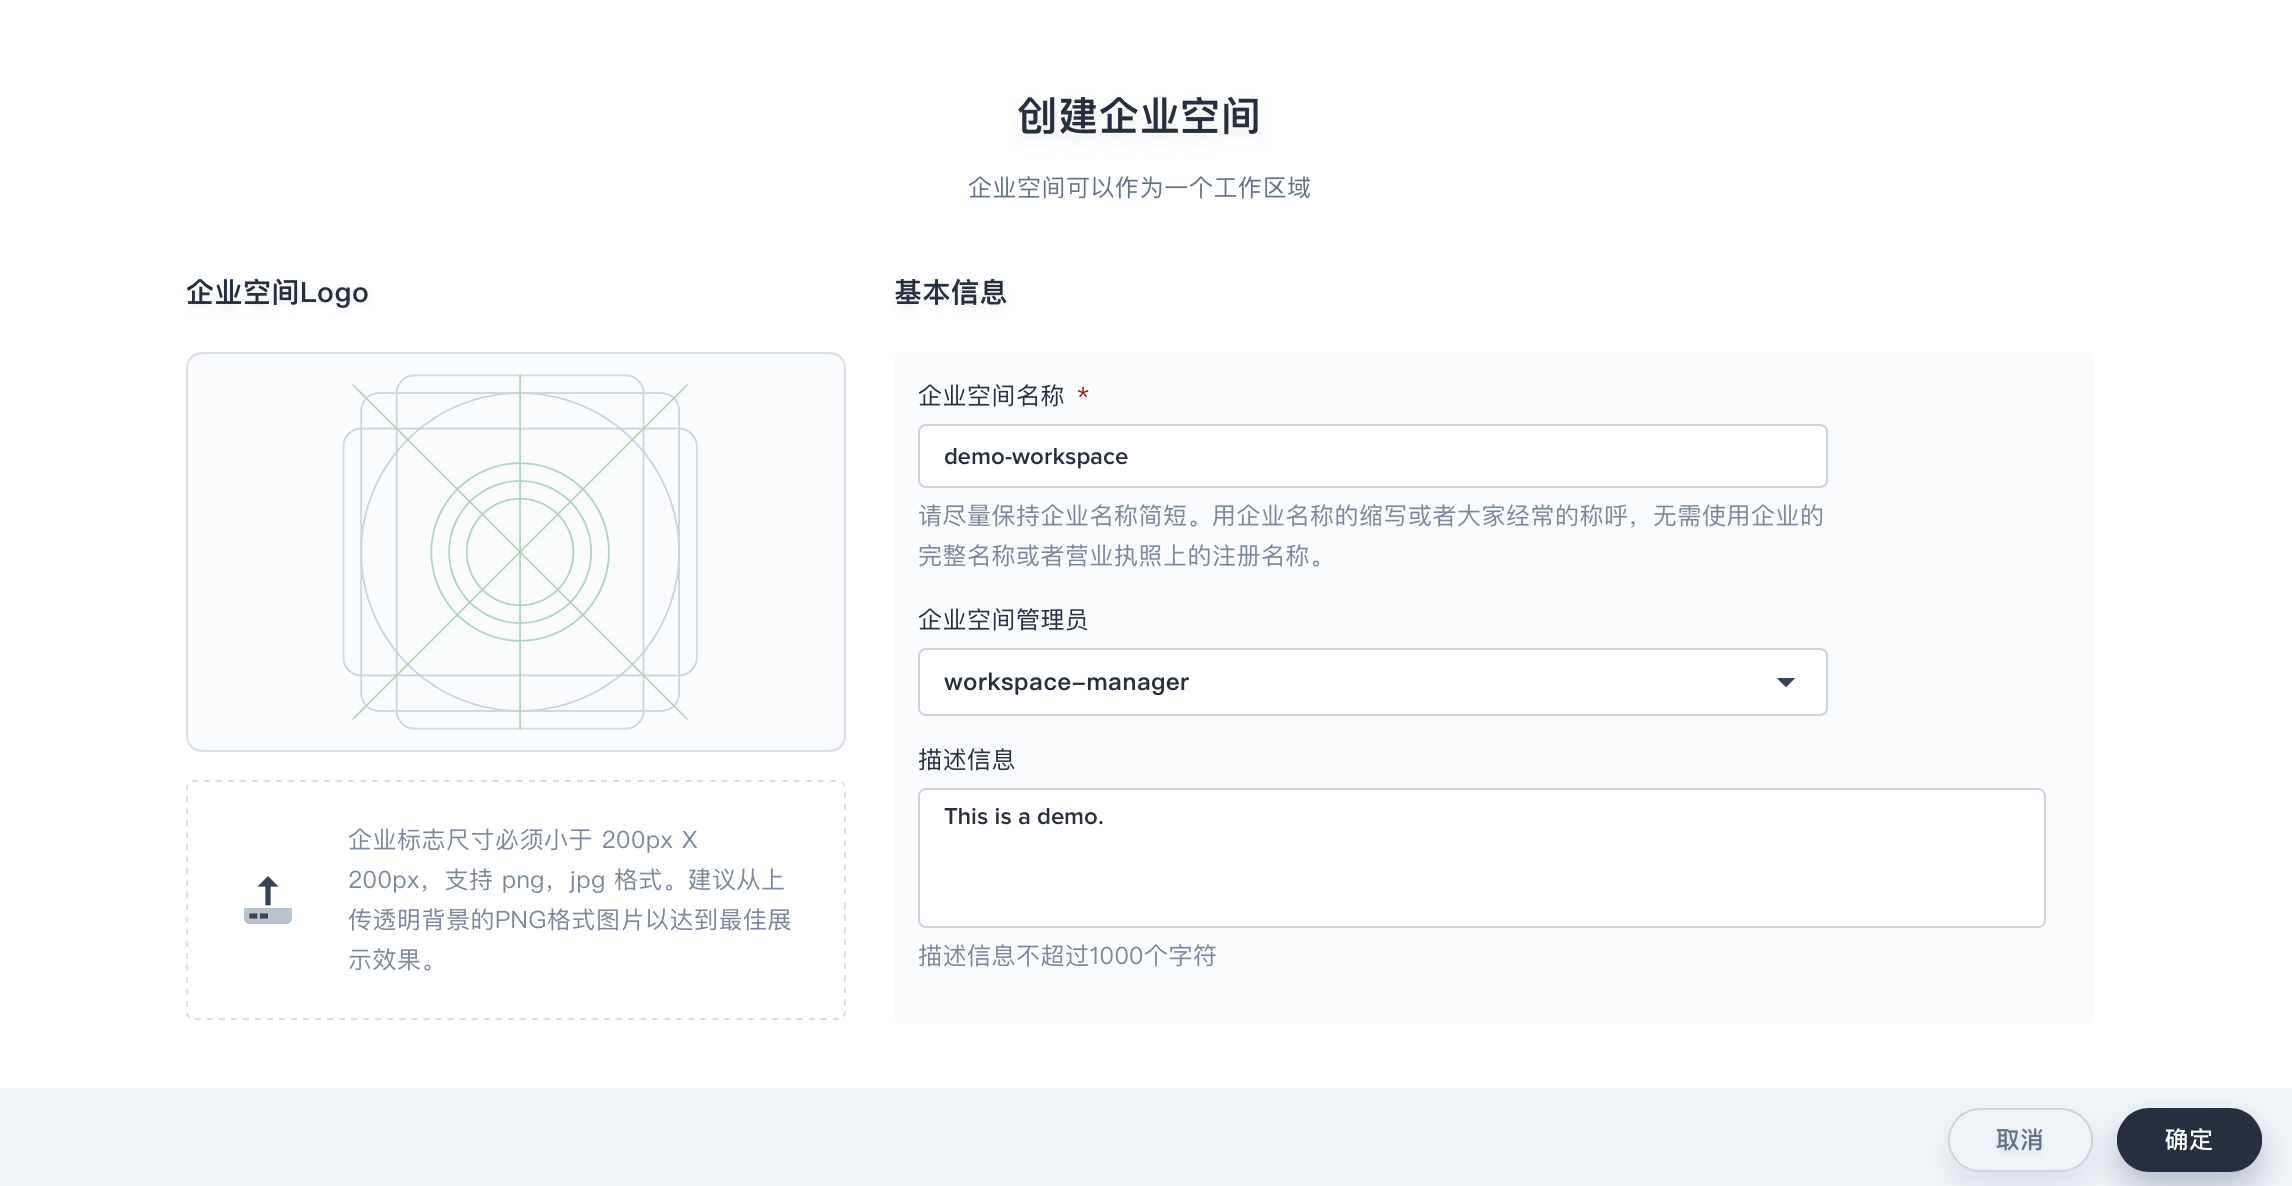
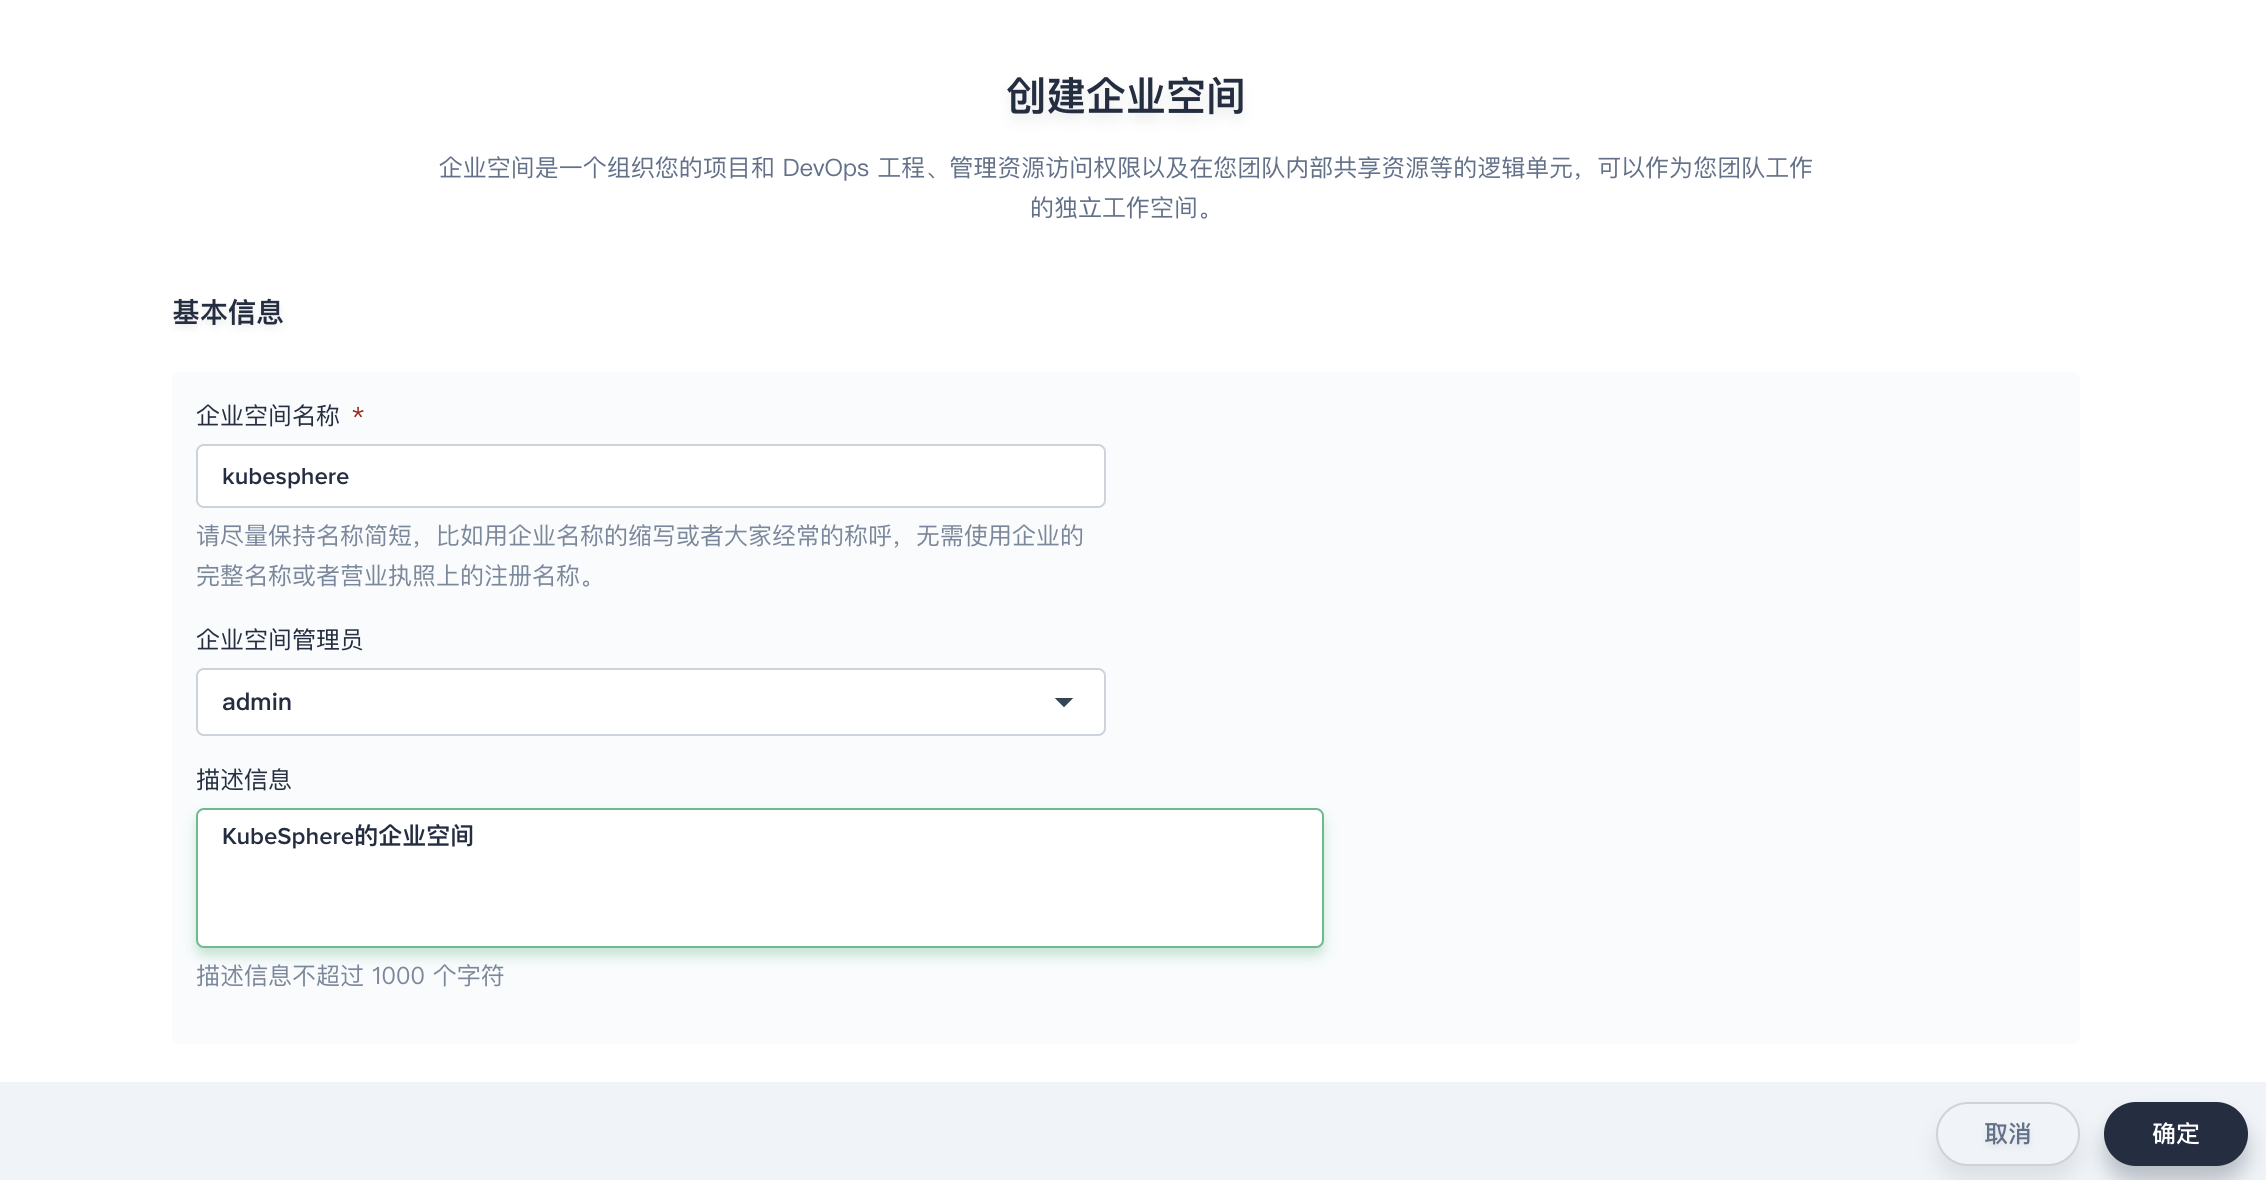
fix typo, update faq

diff --git a/content/advanced-v1.0.0/zh-CN/installation/master-ha.md b/content/advanced-v1.0.0/zh-CN/installation/master-ha.md
@@ -27,7 +27,11 @@ Multi-node 模式安装 KubeSphere 可以帮助用户顺利地部署一个多节
 
 为了对待部署目标机器及部署流程进行集中化管理配置，集群中各个节点在主机配置文件 `hosts.ini` 中应参考如下配置，建议使用 `root` 用户安装。
 
-以下示例在 CentOS 7.5 上使用 `root` 用户安装，若以非 root 用户 (如 ubuntu ) 进行安装，可参考主机配置文件的注释 `non-root` 示例部分编辑。
+以下示例在 **CentOS 7.5** 上使用 `root` 用户安装，若以非 root 用户 (如 ubuntu ) 进行安装，可参考主机配置文件的注释 `non-root` 示例部分编辑。
+
+> 说明：
+> - 若以非 root 用户 (如 ubuntu 用户) 进行安装，可参考配置文件 `conf/hosts.ini` 的注释中 `non-root` 用户示例部分编辑。
+> - 如果在 taskbox 使用 root 用户无法 ssh 连接到其他机器，也需要参考 `conf/hosts.ini` 的注释中 `non-root` 用户示例部分，但执行安装脚本 `install.sh` 时建议切换到 root 用户，如果对此有疑问可参考 [常见问题 - 问题 2](../../faq)。
 
 **host.ini 配置示例**
 
@@ -109,5 +113,5 @@ loadbalancer_apiserver:
   port: 6443
 ```
 
-完成 master 和 etcd 高可用的参数配置后，可继续参阅 [Multi-node 模式 - 存储配置示例](../multi-node/#第二步-准备安装配置文件) 在 vars.yml 中配置持久化存储相关参数，并继续多节点的安装。
+完成 master 和 etcd 高可用的参数配置后，请继续参阅 [Multi-node 模式 - 存储配置示例](../multi-node/#第二步-准备安装配置文件) 在 vars.yml 中配置持久化存储相关参数，并继续多节点的安装。
 

diff --git a/content/advanced-v1.0.0/zh-CN/faq.md b/content/advanced-v1.0.0/zh-CN/faq.md
@@ -10,7 +10,7 @@ title: "常见问题"
 
 可通过命令 `sudo su` 切换为 root 用户后，在该节点查看是否能 ssh 连接到其他机器，如果 ssh 无法连接，则需要参考 `conf/hosts.ini` 的注释中 `non-root` 用户示例部分，如下面第二步 `hosts.ini` 配置示例所示，而最终执行安装脚本 `install.sh` 时建议以 `root` 用户执行安装。
 
-第一步，查看是否能 ssh 连接到其他机器，若无法连接，则参考第二步配置示例。相反，如果 root 用户能够 ssh 成功连接到其它机器，则可以参考 `[all]` 默认的 root 用户配置方式。
+第一步，查看是否能 ssh 连接到其他机器，若无法连接，则参考第二步配置示例。相反，如果 root 用户能够 ssh 成功连接到其它机器，则可以参考 Installer 中默认的 root 用户配置方式。
 
 ```
 root@192.168.0.3 # ssh 192.168.0.2
@@ -18,7 +18,7 @@ Warning: Permanently added 'node1,192.168.0.2' (ECDSA) to the list of known host
 root@192.168.0.2's password: 
 Permission denied, please try again.
 ```
-第二步，参考以下示例修改主机配置文件 `hosts.ini`。
+第二步，如下示例使用 3 台机器，参考以下示例修改主机配置文件 `hosts.ini`。
 
 **hosts.ini 配置示例**
 ```ini

diff --git a/content/advanced-v1.0.0/zh-CN/introduction/advantages.md b/content/advanced-v1.0.0/zh-CN/introduction/advantages.md
@@ -27,7 +27,3 @@ KubeSphere 为企业用户提供高性能可伸缩的容器应用管理服务，
 |松耦合功能模块设计| 除提供基于原生 k8s 的管理功能之外，用户可以使用 KubeSphere 集成的诸如镜像仓库、应用仓库、监控、日志模块，也可通过配置的方式集成自建的相关服务。 |
 |可选的商业网络解决方案|除了支持 Calico、Flannel 等开源解决方案外，如用户对网络有更高要求，可选用青云作为底层平台，可以使用性价比更高的网络解决方案如青云 SDN 。|
 
-### 产品规划
-**Community Edition** （ [社区版](https://kubesphere.qingcloud.com/#category) ）=> **Express Edition** （ [易捷版](https://kubesphere.qingcloud.com/#category) ）=> **Advanced Edition** （ [高级版](https://kubesphere.qingcloud.com/#category) ）
-
-![Roadmap](/roadmap.svg)

diff --git a/content/advanced-v1.0.0/zh-CN/platform-management/role-management.md b/content/advanced-v1.0.0/zh-CN/platform-management/role-management.md
@@ -18,7 +18,7 @@ title: "平台角色"
 |---|---|
 |cluster-admin |集群管理员，可以管理集群中所有的资源。|
 |cluster-regular|集群中的普通用户，在被邀请加入企业空间之前没有任何资源操作权限。|
-|workspace-manager|集群中企业空间管理员，可以管理集群中所有的企业空间及其下面的项目和工程资源。|
+|workspaces-manager|集群中企业空间管理员，可以管理集群中所有的企业空间及其下面的项目和工程资源。|
 
 管理员可以查看平台中所有的角色，若上述角色不满足实际需求，管理员可自定义平台角色和权限规则。在平台管理下选择 **平台角色**，点击创建。
 

diff --git a/content/advanced-v1.0.0/zh-CN/platform-management/workspace-management.md b/content/advanced-v1.0.0/zh-CN/platform-management/workspace-management.md
@@ -83,9 +83,9 @@ title: "企业空间管理"
 
 |预置角色|描述|
 |---|---|
-|admin |企业空间管理员，可以管理企业空间下所有的资源。|
-|operator|企业空间普通成员，可以在企业空间下创建工程和项目。|
-|viewer|企业空间的观察者，可以查看企业空间下所有的资源信息。|
+|workspace-admin |企业空间管理员，可以管理企业空间下所有的资源。|
+|workspace-regular|企业空间普通成员，可以在企业空间下创建工程和项目。|
+|workspace-viewer|企业空间的观察者，可以查看企业空间下所有的资源信息。|
 
 #### 成员管理
 
